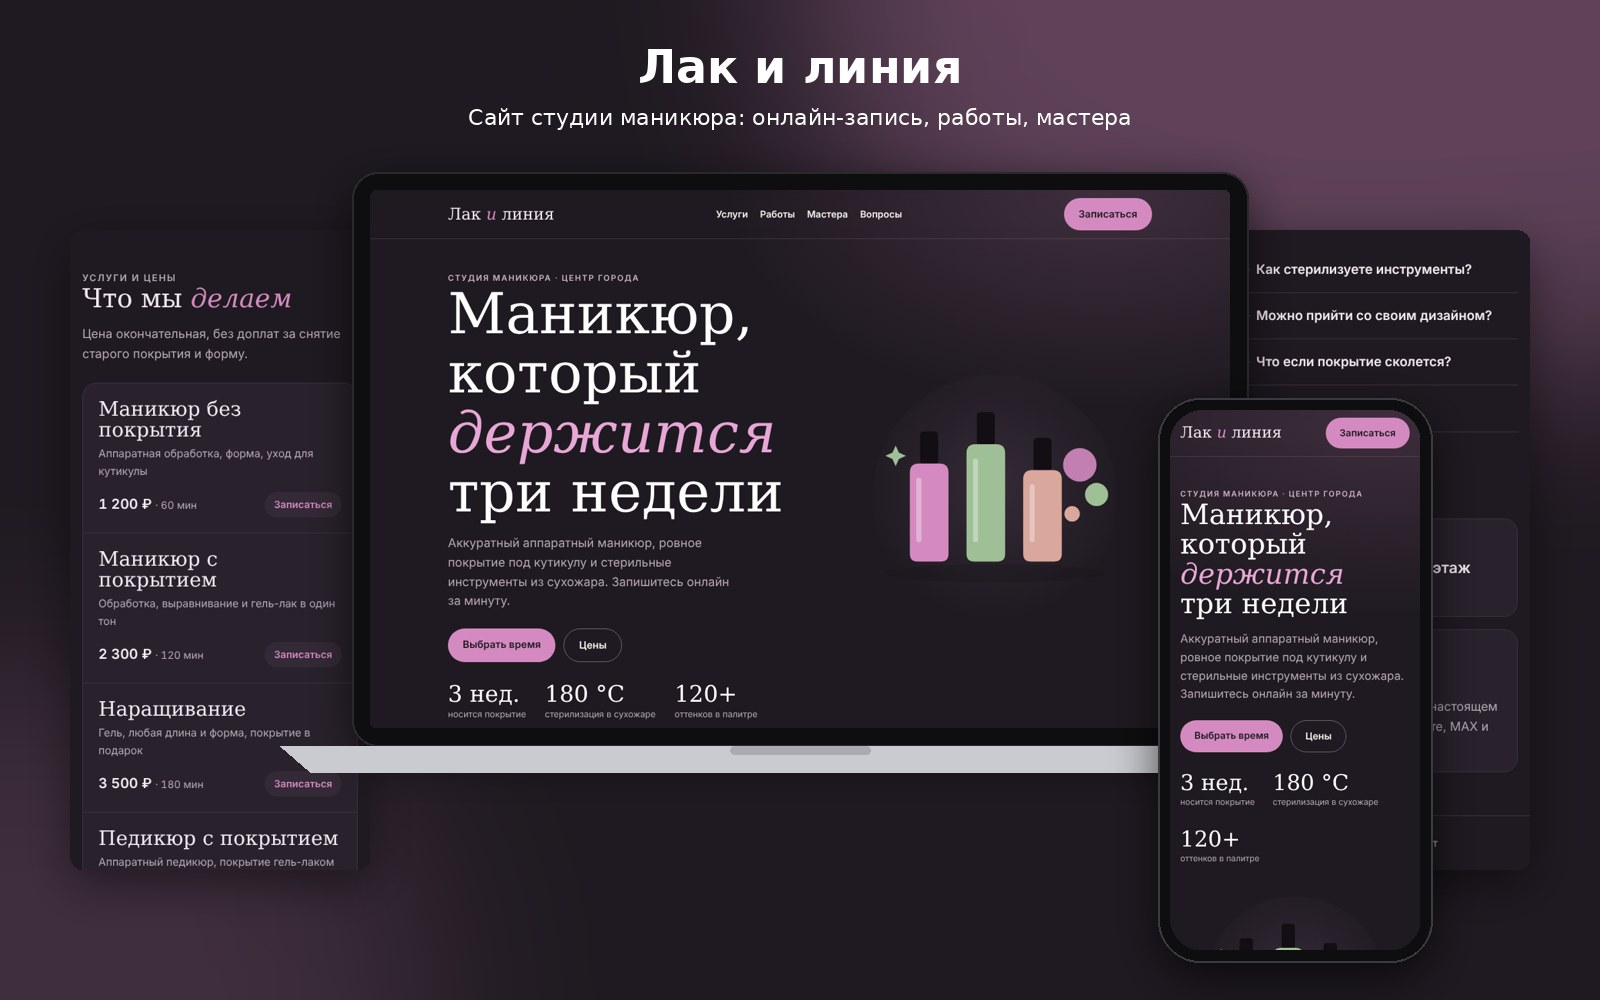
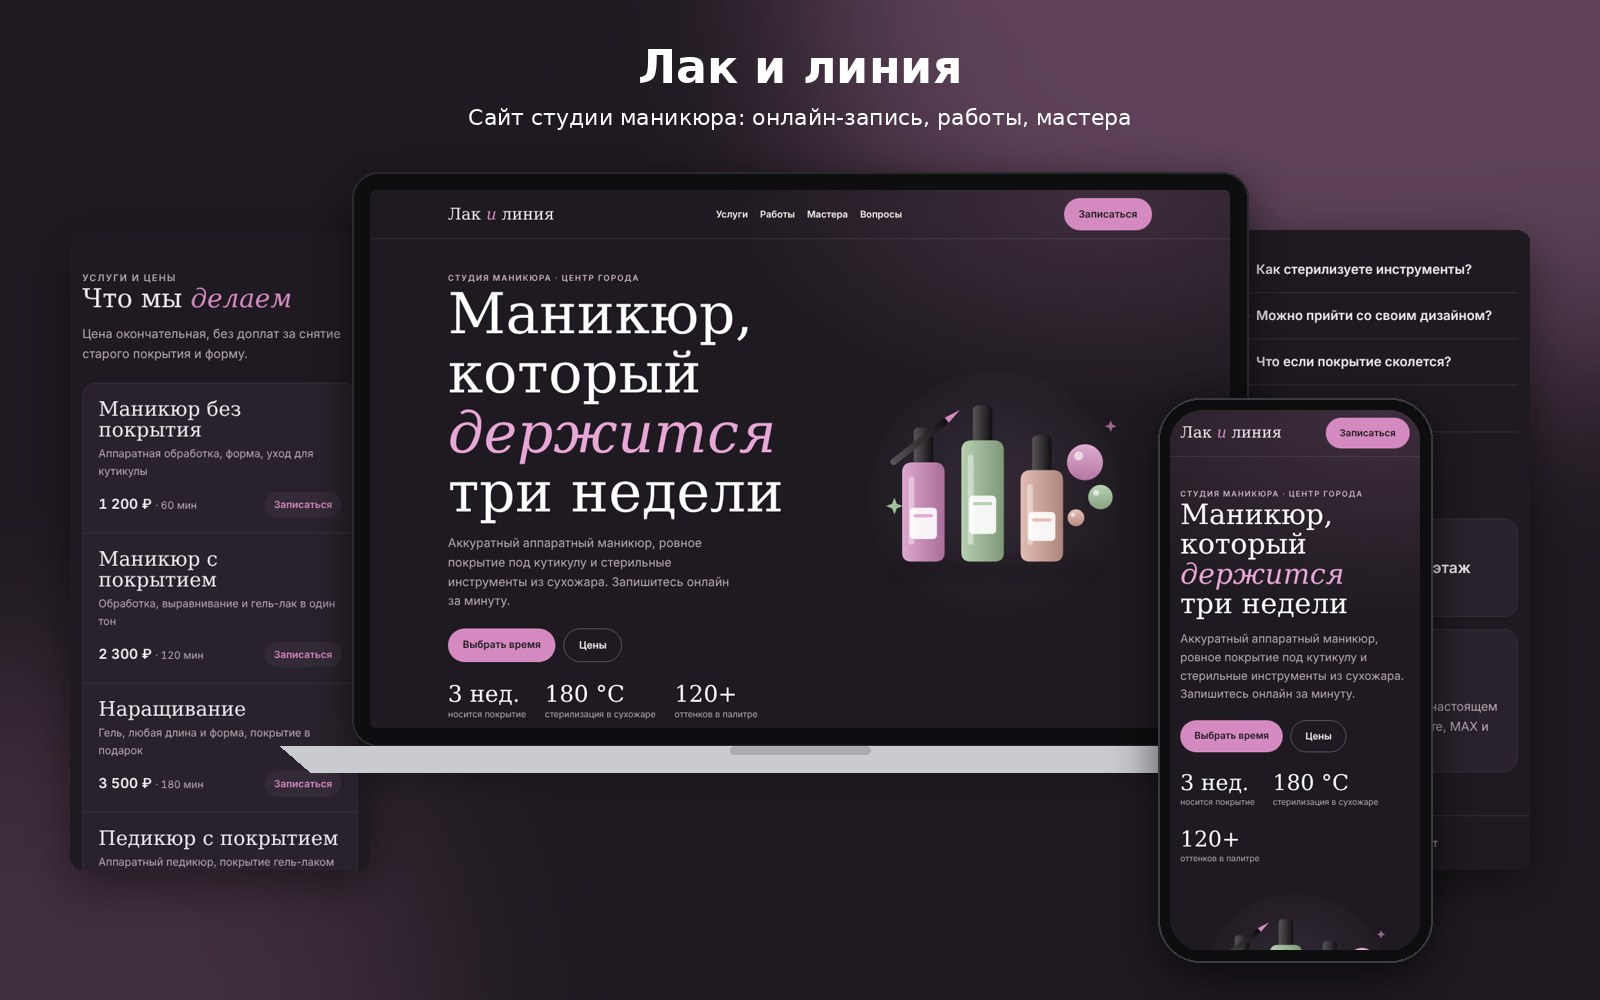
Объёмные иллюстрации в демо-сайтах
Claude-Session: https://claude.ai/code/session_01JFoXaW88EfvuPr2HYJzWZW

Changed region(s): [[0.5625, 0.403, 0.6875, 0.558], [0.7812, 0.93, 0.8125, 0.961]]

diff --git a/nogti/index.html b/nogti/index.html
@@ -164,19 +164,19 @@ footer{border-top:1px solid var(--line);padding-block:24px;color:var(--muted);fo
       <div><b>120+</b><span>оттенков в палитре</span></div>
     </div>
   </div>
-  <div class="art"><svg class="illus" viewBox="0 0 480 400" xmlns="http://www.w3.org/2000/svg" aria-hidden="true">
-<defs><radialGradient id="g993989" cx="50%" cy="45%" r="55%"><stop offset="0" stop-color="#342A37" stop-opacity="1"/><stop offset="1" stop-color="#342A37" stop-opacity="0"/></radialGradient></defs>
-<circle cx="240" cy="200" r="190" fill="url(#g993989)"/>
-<ellipse cx="240" cy="318" rx="170" ry="14" fill="#120E13" opacity=".18"/>
-<rect x="124" y="98" width="28" height="52" rx="6" fill="#120E13"/>
-<path d="M108 162q0-14 14-14h32q14 0 14 14v126q0 12-12 12h-36q-12 0-12-12z" fill="#D48AC0"/>
-<rect x="118" y="170" width="8" height="100" rx="4" fill="#fff" opacity=".35"/><rect x="212" y="68" width="28" height="52" rx="6" fill="#120E13"/>
-<path d="M196 132q0-14 14-14h32q14 0 14 14v156q0 12-12 12h-36q-12 0-12-12z" fill="#9FBF97"/>
-<rect x="206" y="140" width="8" height="130" rx="4" fill="#fff" opacity=".35"/><rect x="300" y="108" width="28" height="52" rx="6" fill="#120E13"/>
-<path d="M284 172q0-14 14-14h32q14 0 14 14v116q0 12-12 12h-36q-12 0-12-12z" fill="#D9A79B"/>
-<rect x="294" y="180" width="8" height="90" rx="4" fill="#fff" opacity=".35"/>
-<circle cx="372" cy="150" r="26" fill="#D48AC0" opacity=".9"/><circle cx="398" cy="196" r="18" fill="#9FBF97"/><circle cx="360" cy="226" r="12" fill="#D9A79B"/>
-<path d="M86 120l5 11 11 5-11 5-5 11-5-11-11-5 11-5z" fill="#9FBF97"/></svg></div>
+  <div class="art"><svg class="illus" viewBox="0 0 480 400" xmlns="http://www.w3.org/2000/svg" aria-hidden="true"><defs><linearGradient id="i2l0" x1="0" y1="0" x2="0" y2="1"><stop offset="0" stop-color="#e0add2"/><stop offset="1" stop-color="#b475a3"/></linearGradient><linearGradient id="i2l1" x1="0" y1="0" x2="0" y2="1"><stop offset="0" stop-color="#bbd2b6"/><stop offset="1" stop-color="#87a280"/></linearGradient><linearGradient id="i2l2" x1="0" y1="0" x2="0" y2="1"><stop offset="0" stop-color="#e4c1b9"/><stop offset="1" stop-color="#b88d83"/></linearGradient><linearGradient id="i2l3" x1="0" y1="0" x2="1" y2="0"><stop offset="0" stop-color="#dea7cf"/><stop offset="1" stop-color="#a96e99"/></linearGradient><linearGradient id="i2l4" x1="0" y1="0" x2="1" y2="0"><stop offset="0" stop-color="#595659"/><stop offset="1" stop-color="#120E13"/></linearGradient><linearGradient id="i2l5" x1="0" y1="0" x2="1" y2="0"><stop offset="0" stop-color="#b7cfb1"/><stop offset="1" stop-color="#7f9878"/></linearGradient><linearGradient id="i2l6" x1="0" y1="0" x2="1" y2="0"><stop offset="0" stop-color="#595659"/><stop offset="1" stop-color="#120E13"/></linearGradient><linearGradient id="i2l7" x1="0" y1="0" x2="1" y2="0"><stop offset="0" stop-color="#e2bdb4"/><stop offset="1" stop-color="#ad857c"/></linearGradient><linearGradient id="i2l8" x1="0" y1="0" x2="1" y2="0"><stop offset="0" stop-color="#595659"/><stop offset="1" stop-color="#120E13"/></linearGradient><linearGradient id="i2l9" x1="0" y1="0" x2="1" y2="0"><stop offset="0" stop-color="#595659"/><stop offset="1" stop-color="#120E13"/></linearGradient><radialGradient id="i2r10" cx="50%" cy="45%" r="55%"><stop offset="0" stop-color="#342A37" stop-opacity="1"/><stop offset="1" stop-color="#342A37" stop-opacity="0"/></radialGradient><filter id="i2f11" x="-50%" y="-50%" width="200%" height="200%"><feGaussianBlur stdDeviation="9"/></filter></defs><circle cx="240" cy="200" r="195" fill="url(#i2r10)"/><ellipse cx="236" cy="312" rx="160" ry="14" fill="#120E13" opacity="0.28" filter="url(#i2f11)"/>
+<rect x="114" y="92" width="30" height="58" rx="7" fill="url(#i2l4)"/>
+<path d="M96 162q0-16 16-16h34q16 0 16 16v124q0 14-14 14h-38q-14 0-14-14z" fill="url(#i2l3)"/>
+<rect x="106" y="168" width="9" height="106" rx="4.5" fill="#fff" opacity=".4"/>
+<rect x="108" y="216.39999999999998" width="42" height="48.64" rx="6" fill="#fff" opacity=".9"/><rect x="114" y="226.39999999999998" width="30" height="5" rx="2.5" fill="#D48AC0" opacity=".7"/><rect x="206" y="58" width="30" height="58" rx="7" fill="url(#i2l6)"/>
+<path d="M188 128q0-16 16-16h34q16 0 16 16v158q0 14-14 14h-38q-14 0-14-14z" fill="url(#i2l5)"/>
+<rect x="198" y="134" width="9" height="140" rx="4.5" fill="#fff" opacity=".4"/>
+<rect x="200" y="197.7" width="42" height="59.52" rx="6" fill="#fff" opacity=".9"/><rect x="206" y="207.7" width="30" height="5" rx="2.5" fill="#9FBF97" opacity=".7"/><rect x="298" y="104" width="30" height="58" rx="7" fill="url(#i2l8)"/>
+<path d="M280 174q0-16 16-16h34q16 0 16 16v112q0 14-14 14h-38q-14 0-14-14z" fill="url(#i2l7)"/>
+<rect x="290" y="180" width="9" height="94" rx="4.5" fill="#fff" opacity=".4"/>
+<rect x="292" y="223.0" width="42" height="44.800000000000004" rx="6" fill="#fff" opacity=".9"/><rect x="298" y="233.0" width="30" height="5" rx="2.5" fill="#D9A79B" opacity=".7"/><circle cx="380" cy="146" r="28" fill="url(#i2l0)"/><circle cx="370.2" cy="136.2" r="7.0" fill="#fff" opacity=".6"/><circle cx="404" cy="200" r="19" fill="url(#i2l1)"/><circle cx="397.35" cy="193.35" r="4.75" fill="#fff" opacity=".6"/><circle cx="366" cy="232" r="13" fill="url(#i2l2)"/><circle cx="361.45" cy="227.45" r="3.25" fill="#fff" opacity=".6"/>
+<g transform="rotate(-38 120 120)"><rect x="70" y="112" width="110" height="10" rx="5" fill="url(#i2l9)"/><path d="M180 112l26 5-26 5z" fill="#D48AC0"/></g>
+<path d="M84 201l3.6400000000000006 9.36 9.36 3.6400000000000006-9.36 3.6400000000000006-3.6400000000000006 9.36-3.6400000000000006-9.36-9.36-3.6400000000000006 9.36-3.6400000000000006z" fill="#9FBF97" opacity="1"/><path d="M420 81l2.5200000000000005 6.4799999999999995 6.4799999999999995 2.5200000000000005-6.4799999999999995 2.5200000000000005-2.5200000000000005 6.4799999999999995-2.5200000000000005-6.4799999999999995-6.4799999999999995-2.5200000000000005 6.4799999999999995-2.5200000000000005z" fill="#D48AC0" opacity="0.7"/></svg></div>
 </header>
 <div class="wrap"><div class="trust"><div><i><svg viewBox="0 0 24 24"><path d="M12 3l8 3v6c0 5-3.5 8-8 9-4.5-1-8-4-8-9V6z"/><path d="M8.5 12l2.5 2.5 4.5-5"/></svg></i><p style="margin:0"><b>Стерильно</b><span>крафт-пакет вскрываем при вас</span></p></div><div><i><svg viewBox="0 0 24 24"><path d="M12 3l2.7 5.6 6.1.9-4.4 4.3 1 6.1L12 17l-5.4 2.9 1-6.1L3.2 9.5l6.1-.9z"/></svg></i><p style="margin:0"><b>Гарантия 7 дней</b><span>исправим сколы бесплатно</span></p></div><div><i><svg viewBox="0 0 24 24"><circle cx="12" cy="12" r="9"/><path d="M12 7v5l3 2"/></svg></i><p style="margin:0"><b>Запись онлайн</b><span>свободное время сразу видно</span></p></div><div><i><svg viewBox="0 0 24 24"><path d="M12 3v6M12 15v6M3 12h6M15 12h6"/></svg></i><p style="margin:0"><b>120+ оттенков</b><span>и дизайн по вашей картинке</span></p></div></div></div>
 </div>

diff --git a/tort/index.html b/tort/index.html
@@ -127,20 +127,17 @@ footer{border-top:1px solid var(--line);padding-block:24px;color:var(--muted);fo
         <div><b>5 начинок</b>на выбор</div>
       </div>
     </div>
-    <div class="art"><svg class="illus" viewBox="0 0 480 400" xmlns="http://www.w3.org/2000/svg" aria-hidden="true">
-<defs><radialGradient id="g917125" cx="50%" cy="45%" r="55%"><stop offset="0" stop-color="#F6E3EA" stop-opacity="1"/><stop offset="1" stop-color="#F6E3EA" stop-opacity="0"/></radialGradient></defs>
-<circle cx="240" cy="200" r="190" fill="url(#g917125)"/>
-<ellipse cx="240" cy="338" rx="150" ry="16" fill="#2B1D29" opacity=".18"/>
-<rect x="96" y="318" width="288" height="14" rx="7" fill="#E9E2DE"/>
-<rect x="120" y="226" width="240" height="96" rx="16" fill="#FFF7F2"/>
-<path d="M120 238q20 26 40 0t40 0t40 0t40 0t40 0t40 0v-12h-240z" fill="#5A3426"/>
-<rect x="120" y="296" width="240" height="26" rx="8" fill="#C2185B" opacity=".9"/>
-<rect x="150" y="150" width="180" height="84" rx="14" fill="#C2185B"/>
-<path d="M150 160q18 22 36 0t36 0t36 0t36 0t36 0v-10h-180z" fill="#5A3426"/>
-<rect x="190" y="104" width="100" height="54" rx="12" fill="#FFF7F2"/>
-<circle cx="205" cy="108" r="9" fill="#C2185B"/><circle cx="202" cy="105" r="2.5" fill="#fff" opacity=".6"/><circle cx="232" cy="100" r="9" fill="#C2185B"/><circle cx="229" cy="97" r="2.5" fill="#fff" opacity=".6"/><circle cx="259" cy="104" r="9" fill="#C2185B"/><circle cx="256" cy="101" r="2.5" fill="#fff" opacity=".6"/><circle cx="285" cy="110" r="9" fill="#C2185B"/><circle cx="282" cy="107" r="2.5" fill="#fff" opacity=".6"/><rect x="222" y="66" width="8" height="34" rx="3" fill="#6E9A5C"/><path d="M226 52c6 6 4 12 0 14c-4-2-6-8 0-14z" fill="#F6B44A"/><rect x="248" y="66" width="8" height="34" rx="3" fill="#6E9A5C"/><path d="M252 52c6 6 4 12 0 14c-4-2-6-8 0-14z" fill="#F6B44A"/>
-<path d="M392 120l6 14 14 6-14 6-6 14-6-14-14-6 14-6z" fill="#6E9A5C" opacity=".9"/>
-<path d="M92 170l4 9 9 4-9 4-4 9-4-9-9-4 9-4z" fill="#C2185B" opacity=".7"/></svg></div>
+    <div class="art"><svg class="illus" viewBox="0 0 480 400" xmlns="http://www.w3.org/2000/svg" aria-hidden="true"><defs><linearGradient id="i0l0" x1="0" y1="0" x2="0" y2="1"><stop offset="0" stop-color="#cb3a73"/><stop offset="1" stop-color="#a4144d"/></linearGradient><linearGradient id="i0l1" x1="0" y1="0" x2="0" y2="1"><stop offset="0" stop-color="#FFF7F2"/><stop offset="1" stop-color="#eae3de"/></linearGradient><linearGradient id="i0l2" x1="0" y1="0" x2="0" y2="1"><stop offset="0" stop-color="#6a483b"/><stop offset="1" stop-color="#5A3426"/></linearGradient><linearGradient id="i0l3" x1="0" y1="0" x2="0" y2="1"><stop offset="0" stop-color="#ce467b"/><stop offset="1" stop-color="#911244"/></linearGradient><linearGradient id="i0l4" x1="0" y1="0" x2="0" y2="1"><stop offset="0" stop-color="#ce467b"/><stop offset="1" stop-color="#911244"/></linearGradient><linearGradient id="i0l5" x1="0" y1="0" x2="0" y2="1"><stop offset="0" stop-color="#ce467b"/><stop offset="1" stop-color="#911244"/></linearGradient><linearGradient id="i0l6" x1="0" y1="0" x2="0" y2="1"><stop offset="0" stop-color="#ce467b"/><stop offset="1" stop-color="#911244"/></linearGradient><linearGradient id="i0l7" x1="0" y1="0" x2="0" y2="1"><stop offset="0" stop-color="#99b88c"/><stop offset="1" stop-color="#6E9A5C"/></linearGradient><linearGradient id="i0l8" x1="0" y1="0" x2="0" y2="1"><stop offset="0" stop-color="#99b88c"/><stop offset="1" stop-color="#6E9A5C"/></linearGradient><radialGradient id="i0r9" cx="50%" cy="45%" r="55%"><stop offset="0" stop-color="#F6E3EA" stop-opacity="1"/><stop offset="1" stop-color="#F6E3EA" stop-opacity="0"/></radialGradient><filter id="i0f10" x="-50%" y="-50%" width="200%" height="200%"><feGaussianBlur stdDeviation="9"/></filter></defs><circle cx="240" cy="200" r="195" fill="url(#i0r9)"/><ellipse cx="240" cy="340" rx="160" ry="14" fill="#2B1D29" opacity="0.28" filter="url(#i0f10)"/>
+<ellipse cx="240" cy="326" rx="160" ry="20" fill="#e9d7de"/><ellipse cx="240" cy="320" rx="150" ry="16" fill="#FFFFFF"/>
+<rect x="112" y="222" width="256" height="96" rx="18" fill="url(#i0l1)"/>
+<rect x="112" y="290" width="256" height="28" rx="10" fill="url(#i0l0)"/>
+<path d="M112 236q21 30 42 0t43 0t43 0t43 0t43 0t42 0v-14h-256z" fill="url(#i0l2)"/>
+<rect x="148" y="146" width="184" height="86" rx="16" fill="url(#i0l0)"/>
+<rect x="160" y="160" width="10" height="56" rx="5" fill="#fff" opacity=".18"/>
+<path d="M148 158q18 24 37 0t37 0t37 0t37 0t36 0v-12h-184z" fill="url(#i0l2)"/>
+<rect x="184" y="100" width="112" height="56" rx="14" fill="url(#i0l1)"/>
+<circle cx="196" cy="112" r="11" fill="url(#i0l3)"/><circle cx="192" cy="108" r="3" fill="#fff" opacity=".7"/><circle cx="226" cy="102" r="11" fill="url(#i0l4)"/><circle cx="222" cy="98" r="3" fill="#fff" opacity=".7"/><circle cx="256" cy="102" r="11" fill="url(#i0l5)"/><circle cx="252" cy="98" r="3" fill="#fff" opacity=".7"/><circle cx="286" cy="112" r="11" fill="url(#i0l6)"/><circle cx="282" cy="108" r="3" fill="#fff" opacity=".7"/><rect x="218" y="58" width="9" height="40" rx="3" fill="url(#i0l7)"/><path d="M219 66l7-4M219 78l7-4M219 90l7-4" stroke="#fff" stroke-width="2" opacity=".6"/><path d="M222.5 40c8 8 5 15 0 17c-5-2-8-9 0-17z" fill="#FFC35A"/><circle cx="222.5" cy="50" r="12" fill="#FFC35A" opacity=".18"/><rect x="254" y="58" width="9" height="40" rx="3" fill="url(#i0l8)"/><path d="M255 66l7-4M255 78l7-4M255 90l7-4" stroke="#fff" stroke-width="2" opacity=".6"/><path d="M258.5 40c8 8 5 15 0 17c-5-2-8-9 0-17z" fill="#FFC35A"/><circle cx="258.5" cy="50" r="12" fill="#FFC35A" opacity=".18"/>
+<path d="M396 104l4.48 11.52 11.52 4.48-11.52 4.48-4.48 11.52-4.48-11.52-11.52-4.48 11.52-4.48z" fill="#6E9A5C" opacity="1"/><path d="M88 165l3.08 7.92 7.92 3.08-7.92 3.08-3.08 7.92-3.08-7.92-7.92-3.08 7.92-3.08z" fill="#C2185B" opacity="0.7"/><path d="M372 242l2.24 5.76 5.76 2.24-5.76 2.24-2.24 5.76-2.24-5.76-5.76-2.24 5.76-2.24z" fill="#C2185B" opacity="0.6"/></svg></div>
   </div>
   <div class="trust"><div><i><svg viewBox="0 0 24 24"><path d="M5 19c0-8 6-14 15-14 0 9-6 15-14 15"/><path d="M5 19l7-7"/></svg></i><p style="margin:0"><b>Натуральный состав</b><span>масло, сливки, ягоды</span></p></div><div><i><svg viewBox="0 0 24 24"><circle cx="12" cy="12" r="9"/><path d="M12 7v5l3 2"/></svg></i><p style="margin:0"><b>Заказ за 3 дня</b><span>или срочно по договорённости</span></p></div><div><i><svg viewBox="0 0 24 24"><path d="M3 6h11v9H3zM14 9h4l3 3v3h-7"/><circle cx="7" cy="17" r="2"/><circle cx="17" cy="17" r="2"/></svg></i><p style="margin:0"><b>Доставка 300 ₽</b><span>по городу в день праздника</span></p></div><div><i><svg viewBox="0 0 24 24"><path d="M4 5h16v11H9l-5 4z"/></svg></i><p style="margin:0"><b>Ответ за час</b><span>в Telegram и WhatsApp</span></p></div></div>
 </div></div>

diff --git a/remont/index.html b/remont/index.html
@@ -99,16 +99,16 @@ footer{padding-block:24px;color:var(--muted);font-size:14px;border-top:1px solid
       <p>Поставим набойки за 15 минут, заменим батарейку при вас, сделаем дубликат ключа от домофона. Гарантия на ремонт 30 дней.</p>
       <div class="tags"><span>Набойки за 15 минут</span><span>Без записи</span><span>Гарантия 30 дней</span></div>
     </div>
-    <div class="art"><svg class="illus" viewBox="0 0 480 400" xmlns="http://www.w3.org/2000/svg" aria-hidden="true">
-<defs><radialGradient id="g523757" cx="50%" cy="45%" r="55%"><stop offset="0" stop-color="#2B333B" stop-opacity="1"/><stop offset="1" stop-color="#2B333B" stop-opacity="0"/></radialGradient></defs>
-<circle cx="240" cy="200" r="190" fill="url(#g523757)"/>
-<ellipse cx="240" cy="336" rx="180" ry="14" fill="#0F1316" opacity=".2"/>
-<path d="M70 300c0-30 8-90 30-112h52c8 36 36 58 80 66c44 8 74 14 74 46z" fill="#D9973A"/>
-<path d="M70 300h236v14q0 8-8 8h-220q-8 0-8-8z" fill="#0F1316"/>
-<circle cx="350" cy="150" r="64" fill="#7FA7C9"/><circle cx="350" cy="150" r="52" fill="#FBFAF7"/>
-<path d="M350 150v-34M350 150l24 14" stroke="#0F1316" stroke-width="6" stroke-linecap="round"/><circle cx="350" cy="150" r="6" fill="#0F1316"/>
-<g transform="rotate(-40 150 110)"><circle cx="150" cy="110" r="26" fill="none" stroke="#7FA7C9" stroke-width="12"/><rect x="172" y="104" width="90" height="12" rx="6" fill="#7FA7C9"/>
-<rect x="232" y="114" width="10" height="16" rx="3" fill="#7FA7C9"/><rect x="250" y="114" width="10" height="12" rx="3" fill="#7FA7C9"/></g></svg></div>
+    <div class="art"><svg class="illus" viewBox="0 0 480 400" xmlns="http://www.w3.org/2000/svg" aria-hidden="true"><defs><linearGradient id="i1l0" x1="0" y1="0" x2="0" y2="1"><stop offset="0" stop-color="#e0ab61"/><stop offset="1" stop-color="#a2712b"/></linearGradient><linearGradient id="i1l1" x1="0" y1="0" x2="1" y2="1"><stop offset="0" stop-color="#a5c1d9"/><stop offset="1" stop-color="#6585a0"/></linearGradient><linearGradient id="i1l2" x1="0" y1="0" x2="1" y2="1"><stop offset="0" stop-color="#abc5db"/><stop offset="1" stop-color="#7296b4"/></linearGradient><linearGradient id="i1l3" x1="0" y1="0" x2="0" y2="1"><stop offset="0" stop-color="#4b4e50"/><stop offset="1" stop-color="#0F1316"/></linearGradient><radialGradient id="i1r4" cx="50%" cy="45%" r="55%"><stop offset="0" stop-color="#2B333B" stop-opacity="1"/><stop offset="1" stop-color="#2B333B" stop-opacity="0"/></radialGradient><filter id="i1f5" x="-50%" y="-50%" width="200%" height="200%"><feGaussianBlur stdDeviation="9"/></filter></defs><circle cx="240" cy="200" r="195" fill="url(#i1r4)"/><ellipse cx="230" cy="338" rx="185" ry="14" fill="#0F1316" opacity="0.28" filter="url(#i1f5)"/>
+<path d="M66 300c0-34 8-96 32-120h56c8 38 38 62 84 70c46 8 78 16 78 50z" fill="url(#i1l0)"/>
+<path d="M66 300h250v16q0 8-8 8H74q-8 0-8-8z" fill="url(#i1l3)"/>
+<circle cx="120" cy="204" r="5" fill="#F5F1EA"/><circle cx="138" cy="215" r="5" fill="#F5F1EA"/><circle cx="156" cy="226" r="5" fill="#F5F1EA"/>
+<circle cx="352" cy="148" r="70" fill="url(#i1l1)"/><circle cx="352" cy="148" r="56" fill="#FBFAF6"/>
+<rect x="350" y="98" width="4" height="10" rx="2" fill="#0F1316" transform="rotate(0 352 148)"/><rect x="350" y="98" width="4" height="10" rx="2" fill="#0F1316" transform="rotate(30 352 148)"/><rect x="350" y="98" width="4" height="10" rx="2" fill="#0F1316" transform="rotate(60 352 148)"/><rect x="350" y="98" width="4" height="10" rx="2" fill="#0F1316" transform="rotate(90 352 148)"/><rect x="350" y="98" width="4" height="10" rx="2" fill="#0F1316" transform="rotate(120 352 148)"/><rect x="350" y="98" width="4" height="10" rx="2" fill="#0F1316" transform="rotate(150 352 148)"/><rect x="350" y="98" width="4" height="10" rx="2" fill="#0F1316" transform="rotate(180 352 148)"/><rect x="350" y="98" width="4" height="10" rx="2" fill="#0F1316" transform="rotate(210 352 148)"/><rect x="350" y="98" width="4" height="10" rx="2" fill="#0F1316" transform="rotate(240 352 148)"/><rect x="350" y="98" width="4" height="10" rx="2" fill="#0F1316" transform="rotate(270 352 148)"/><rect x="350" y="98" width="4" height="10" rx="2" fill="#0F1316" transform="rotate(300 352 148)"/><rect x="350" y="98" width="4" height="10" rx="2" fill="#0F1316" transform="rotate(330 352 148)"/>
+<path d="M352 148v-36M352 148l26 16" stroke="#0F1316" stroke-width="6" stroke-linecap="round"/><circle cx="352" cy="148" r="6" fill="#0F1316"/>
+<g transform="rotate(-38 150 104)"><circle cx="150" cy="104" r="28" fill="none" stroke="url(#i1l2)" stroke-width="13"/><rect x="174" y="98" width="96" height="13" rx="6.5" fill="url(#i1l2)"/>
+<rect x="238" y="108" width="11" height="18" rx="3" fill="url(#i1l2)"/><rect x="256" y="108" width="11" height="13" rx="3" fill="url(#i1l2)"/></g>
+<path d="M420 259l3.08 7.92 7.92 3.08-7.92 3.08-3.08 7.92-3.08-7.92-7.92-3.08 7.92-3.08z" fill="#D9973A" opacity="0.8"/></svg></div>
   </div>
   <div class="trust"><div><i><svg viewBox="0 0 24 24"><circle cx="12" cy="12" r="9"/><path d="M12 7v5l3 2"/></svg></i><p style="margin:0"><b>15 минут</b><span>набойки и батарейка при вас</span></p></div><div><i><svg viewBox="0 0 24 24"><path d="M12 3l8 3v6c0 5-3.5 8-8 9-4.5-1-8-4-8-9V6z"/><path d="M8.5 12l2.5 2.5 4.5-5"/></svg></i><p style="margin:0"><b>Гарантия 30 дней</b><span>на любой ремонт</span></p></div><div><i><svg viewBox="0 0 24 24"><circle cx="8" cy="15" r="4"/><path d="M11 12l9-9M17 6l2 2"/></svg></i><p style="margin:0"><b>Ключи и домофон</b><span>дубликат за 5 минут</span></p></div><div><i><svg viewBox="0 0 24 24"><path d="M12 3l2.7 5.6 6.1.9-4.4 4.3 1 6.1L12 17l-5.4 2.9 1-6.1L3.2 9.5l6.1-.9z"/></svg></i><p style="margin:0"><b>Осмотр бесплатно</b><span>цена до начала работ</span></p></div></div>
 </div></div>
